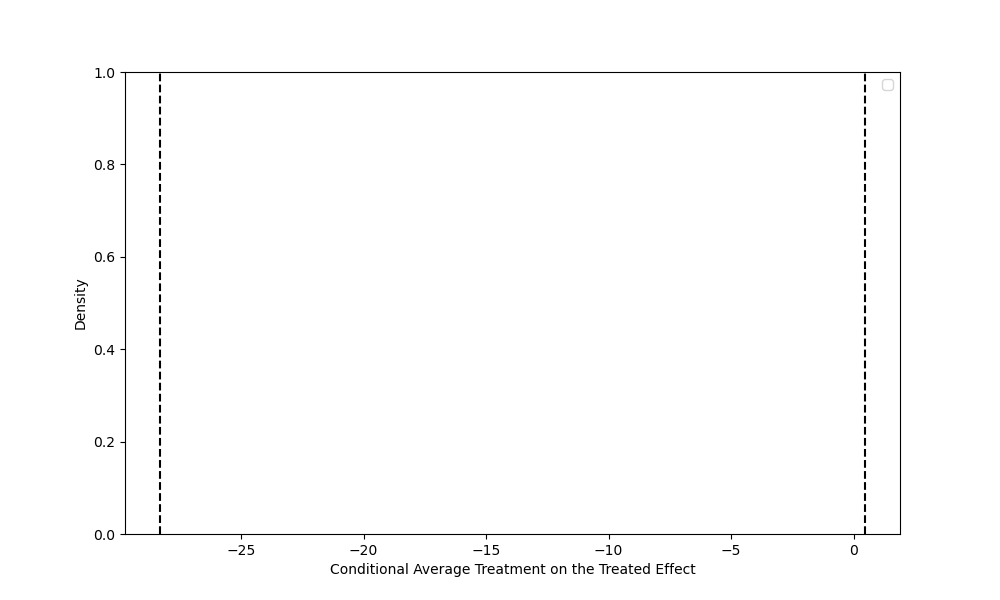
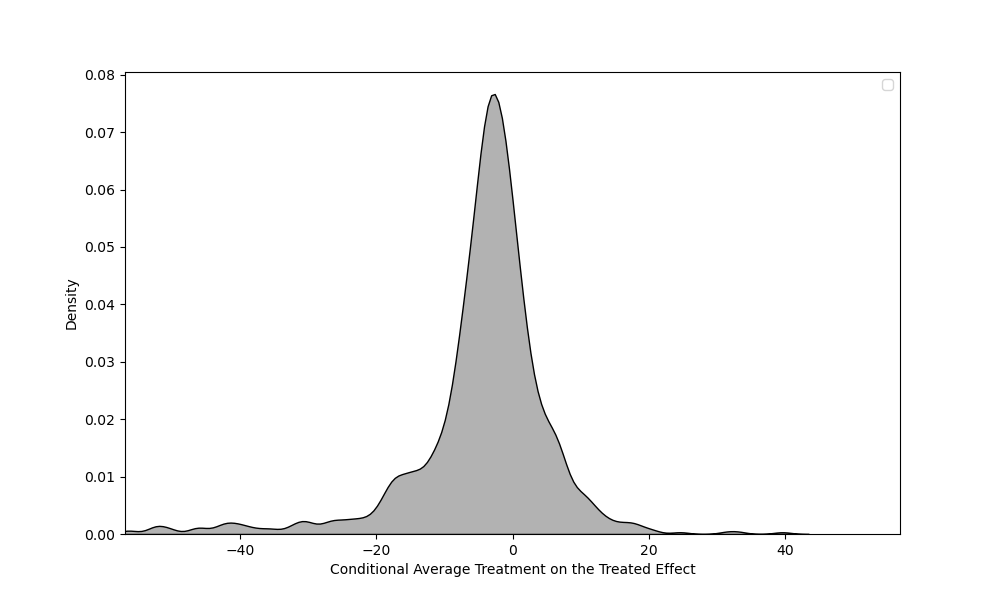
finalizing and correcting

diff --git a/paper/montecarlo.tex b/paper/montecarlo.tex
@@ -82,7 +82,7 @@ The setup for each \ac{dgp} is presented below, indicating which model is correc
 
 \end{multicols}
 
-\subsection{Results Homogenous Treatment Effects}
+\subsection{Homogenous Treatment Effects Simulation}
 
 \input{./graphs/table_low_dim}
 
@@ -135,7 +135,7 @@ Importantly, across all setups is the validation loss smaller than the training 
 \input{./graphs/table_loss_report}
 
 
-\subsection{Results Heterogeneous Treatment Effects}
+\subsection{Heterogeneous Treatment Effects Simulation}
 In the previous section, I outlined the advantage of deep learning, or machine learning in general, when dealing with heterogeneous treatment effects.
 The problem of heterogeneous treatment effect arises when the treatment effect $\theta(X)$ varies across groups \citep{hansen2022econometrics}.
 To validate how the aforementioned estimators perform under heterogeneous treatment effects, I introduce heterogeneity to the DGP4.
@@ -171,12 +171,12 @@ Note that the activation function is \ac{relu} and the neural network is a feedf
 
 In table \ref{tab:nn} one can see, that there is no strictly better alternative architecture when comparing these neural network classes.
 Every change in the hyperparameters comes to the cost of either higher bias or higher variance, which is a common trade-off in machine learning.
-For example, the classic architecture has a higher bias compared to the first variation, which has more hidden layers and units.
+For example, the architecture used throughout the thesis has a higher bias compared to the first variation, which has more hidden layers and units.
 This comes at the cost of higher variance.
 Interestingly, there is no clear sign that deeper neural networks (with more units and layers) impose better results than shallower networks.
 Generally, deeper neural networks come with higher computational costs, which can be extensive, especially in the case of complex and large data.
 
-Additionally, one can see that the first variation of the architecture has a bigger validation loss than training loss.
+Additionally, one can see that the first variation and the last variation have a bigger validation loss than training loss.
 The neural networks 4 and 5 report very small differences between the losses.
 As argued, a higher validation loss compared to the training loss indicates that the model is overfitting.
 For practitioners, it might be useful to use the results of the loss to evaluate which neural networks to select.
@@ -184,26 +184,32 @@ For practitioners, it might be useful to use the results of the loss to evaluate
 
 
 %here
-Observing the coverage probability in Table \ref{tab:nn}, one can see again the extreme coverage of 1 in all but one case.
-The exemption is variation 4 which has the lowest learning rate and reports a coverage probability of 0.84.
-The learning rate is comparable to \citet{farrellDeepNeuralNetworks2021} that also report very high coverage probabilities but not as extreme as here.
+Observing the coverage probability in Table \ref{tab:nn}, one can see again the extreme coverage of 1 in all but two cases.
+The exemptions are variations 4 and 6 which report a coverage probability of 0.84 and 0.874, respectively.
+Variation 4 reports the lowest learning rate and variation 6 is equal to the architecture used throughout the thesis but with no regularization imposed.
+The learning rate of variation 4 is comparable to \citet{farrellDeepNeuralNetworks2021} which also report very high coverage probabilities but not as extreme as 1.
 \citet{farrellDeepNeuralNetworks2021} argue that regularization can lead to extreme coverage probabilities but it is not clear how large the impact is.
-Variation 4 has a similar regularization as the other variations, which could hint that learning rate and regularization affect the coverage probabilities.
-These results are rather suggestive and should be interpreted with caution.
-%regularization preach cautios
-%say something theoretically about learning rates here
-To better understand the extreme coverage probabilities reported in this thesis, one can observe Figure \ref{fig:atte_bounds}.
-Over all the 1000 runs of the \ac{mcs} the estimated conditional \ac{att} never reaches the average upper or lower bound.
-Interestingly the true zero effect is never recovered.
-The very dense and narrow distribution is comparable to the results of \citet{farrellDeepNeuralNetworks2021}.
+The results of the thesis application and variation 6 suggest that imposing regularization might lead to extreme coverage probabilities.
+Variation 4 has a similar regularization as the other variations but a smaller learning rate, which could hint that learning rate and regularization affect the distribution of estimates and thus the coverage probabilities.
+The results emphasize the effect of hyperparameter selection on the model outcome and imply being cautious when imposing regularization within neural networks as \citet{farrellDeepNeuralNetworks2021} suggest.
 
-These results show that there is still no clear understanding of how to select optimal deep learning models for inference.
-The comparison of the neural network architectures even implies a modest sensitivity towards selected hyperparameters.
-There are options like grid search with frameworks like TensorFlow\textsuperscript{\textregistered} that can help in selecting hyperparameters for simulations but for observational data, the choice of optimal neural networks remains unclear.
-\\
 \begin{figure}[h]
 \centering
-\caption{Conditional Average Treatment on the Treated Effekt with Bounds}
-\includegraphics[width=\textwidth]{atte_bounds}
-\label{fig:atte_bounds}
+\caption{Conditional Average Treatment on the Treated Effekt without Regularization}
+\includegraphics[width=\textwidth]{atte_bounds_noreg}
+\label{fig:atte_bounds_noreg}
 \end{figure}
+%regularization preach cautios
+%say something theoretically about learning rates here
+To better understand the extreme coverage probabilities reported in this thesis, one can observe Figure \ref{fig:atte_bounds_noreg}.
+It shows for 1000 runs of the \ac{mcs} the estimated conditional \ac{att} of variation 6 without regularization.
+The highest density of the distribution is around 0, which is the "true" effect.
+In Appendix Figure \ref{fig:atte_bounds} one can see the results of the application used throughout the thesis.
+The estimated conditional \ac{att} never reaches the average upper or lower bound, thus indicating the extreme coverage probabilities of 1.
+The distribution of the estimates is very dense and narrow as comparable to the results of \citet{farrellDeepNeuralNetworks2021}.
+Note that the application used throughout the thesis does not recover the true treatment effect even though reporting much lower bias and variance than variation 6.
+
+These results show that there is still no clear understanding of how to select optimal deep learning models for inference.
+The comparison of the neural network architectures even implies a strong sensitivity towards selected hyperparameters.
+Especially the choice of regularization has a substantial effect on the simulation results.
+For selecting suitable hyperparameters frameworks like TensorFlow\textsuperscript{\textregistered} offer grid search approaches that can help selecting hyperparameters for simulations but for observational data, the choice of optimal neural networks remains unclear.

diff --git a/paper/application.tex b/paper/application.tex
@@ -1,42 +1,43 @@
 \section{Application}
 
 An early application of \ac{did} is the paper of \citet{meyer1990workers} who investigate the effect of workers' compensation on their time out of work.
-In 1980 the states of Kentucky and Michigan substantially increased the compensations in case of work induced disability or injury.
-As the policy just affected high-earning workers, \citet{meyer1990workers} took low-earning workers as a control group.
-Their idea is that low- and high earning workers are comparable except for the fact that high earning workers are treated with the compensation policy.
-In their original study they report a significant increase in time out of work for Kentucky but not for Michigan.
+In 1980, the states of Kentucky and Michigan substantially increased the compensations in case of work-induced disability or injury.
+As the policy affected high-earning workers, \citet{meyer1990workers} took low-earning workers as a control group.
+Their idea was that low- and high-earning workers are comparable except that high-earning workers are treated with the compensation policy.
+The distribution of the pre-treatment compensation duration for low- and high-earning workers can be seen in the Appendix Figure \ref{fig:log_duration_distribution}.
+In their original study, they report a significant increase in time out of work for Kentucky but not for Michigan.
 
 \citet{meyer1990workers} implemented a classical $2 \times 2$ \ac{did} design, which makes it suitable to the methods discussed in this thesis.
-Due to the low sample size of the Michigan data, the anaylsis is solely focused on Kentucky.
-Therefore the \ac{did} identification strategy can be formulated as follows:
+Due to the low sample size of the Michigan data, the analysis is solely focused on Kentucky.
+Therefore, the \ac{did} identification strategy can be formulated as follows:
 \begin{equation}
 \text{Duration}_{it} = \alpha + \beta_1 \text{Post}_t + \beta_2 \text{HighEarnings}_i + \beta_3 (\text{Post}_t \times \text{HighEarnings}_i) + \gamma X_{it} + \epsilon_{it},
 \label{eq:duration}
 \end{equation}
 where the interaction $(\text{Post}_t \times \text{HighEarnings}_i)$ is the \ac{did} estimator.
-$X_{it}$ is a vector of control variables such as injury type, age or gender.
-As \citet{meyer1990workers} uses many of these pre-treatment covariates like age or gender it implicates that they assume conditional \ac{pta}.
-Of course it is not possible to test for \ac{pta} but the conditional \ac{pta} seems to be a more robust assumption in an observational study \citep{santannaDoublyRobustDifferenceindifferences2020}.
-A second remark is towards heterogeneity in the treatment group, which is given in almost all context \citep{DeepLearningIndividual2021}.
-The Appendix Table \ref{tab:duration} shows the difference in duration of out of work time across injury types before and after the treatment.
-The magnitude of the differences is quite large, which is a hint towards heterogeneity in the treatment group.
-Based on that I conducted a regression exclusion test following \citet{hansen2022econometrics} where the results can be seen in Table \ref{tab:exclusion_test} in the Appendix.
+$X_{it}$ is a vector of control variables such as injury type, age, or gender.
+As \citet{meyer1990workers} use many of these pre-treatment covariates like age or gender it implicates that they assume conditional \ac{pta}.
+By design, it is not possible to test for \ac{pta} but the conditional \ac{pta} seems to be a more robust assumption in an observational study \citep{santannaDoublyRobustDifferenceindifferences2020}.
+A second remark is towards heterogeneity in the treatment group, which is given in almost all contexts \citep{DeepLearningIndividual2021}.
+The Appendix Table \ref{tab:duration} shows the difference in duration of out-of-work time across injury types before and after the treatment.
+The magnitude of the differences is quite large, hinting towards heterogeneity in the treatment group.
+Based on that, I conducted a regression exclusion test following \citet{hansen2022econometrics} where the results can be seen in Table \ref{tab:exclusion_test} in the Appendix.
 The regression exclusion test is significant, which implies that homogeneous treatment effects cannot be assumed.
 
-These results motivate to apply the \ac{drdid} + DL\footnote[5]{Contrary to before I use the prebuilt software implementation of \citet*{doubleml2024R} to be able to report summary statistics for the \ac{drdid} + DL estimation.} estimator to the data of \citet{meyer1990workers}.
-To be able to compare between different designs, I also estimate a saturated dummy design without controls and the regression equation \ref{eq:duration} with controls and interactions.
+These results are reason to apply the \ac{drdid} + DL\footnote[5]{Here I use the prebuilt software implementation of \citet*{doubleml2024R} to be able to report summary statistics for the \ac{drdid} + DL estimation.} estimator to the data of \citet{meyer1990workers}.
+To compare different designs, I also estimate a saturated dummy design without controls and the regression equation \ref{eq:duration} with controls and interactions.
 The estimates are reported in Table \ref{tab:reg_results}.
-Note that the results of the regression equation \ref{eq:duration} are slightly different to the results of \citet{meyer1990workers}.
+Note that the results of the regression equation \ref{eq:duration} are slightly different from the results of \citet{meyer1990workers}.
 This should be due to different handling of the data-cleaning process than to the different estimation methods.
 
 \input{./graphs/table_application_res.tex}
 
-In Table \ref{tab:reg_results} one can clearly see that the results for all parametric models are quite similar.
+In Table \ref{tab:reg_results}, one can see that the results for all parametric models are quite similar.
 Note that the saturated design is similar to the regression equation \ref{eq:duration} implying that the controls might not have a large impact on the results.
-Assuming homogenous treatment effect this result would normally imply that the parametric model is robust and sufficient for estimation.
+Assuming a homogenous treatment effect this result would normally imply that the parametric model is robust and sufficient for estimation.
 Due to the potential heterogeneity in the treatment group, the \ac{drdid} + DL estimator is arguably the most robust model.
 One can see that the \ac{drdid} + DL estimator is still able to retrieve significant results as the other models, even though the standard errors are slightly larger.
-The magnitude of the \ac{att} is also larger than in the other models, implying a even bigger effect of compensation policy in Kentucky than previously assumed.
+The magnitude of the \ac{att} is also larger than in the other models, implying an even bigger effect of compensation policy in Kentucky than previously assumed.
 
 Even though the \ac{drdid} + DL is more robust to unspecified models and heterogeneity in the treatment group, there is the potential issue of overfitting.
 Note that the neural network used in Table \ref{tab:reg_results} has the same architecture as in the simulation study.

diff --git a/paper/discussion.tex b/paper/discussion.tex
@@ -1,36 +1,34 @@
-\section{Discussion and Further Research}
+\section{Further Research}
 
-%write that section first if I know if I write the application
-%cross sectional data extension
-%what is the problem with cross sectional data
-Naturally, this thesis cannot do justice to all aspects of semiparametric estimation with deep learning, such that there are multiple ways to extend the results in further research.
-One possible extension is to apply the aforementioned methods on repeated cross-sectional data.
-Altough panel data is the preferred data structure for causal inference due to its generally lower variance, cross-sectional data is often the only available option.
+
+This thesis cannot do justice to all aspects of semiparametric estimation with deep learning, such that there are multiple ways to extend the results in further research.
+One possible extension is to apply the aforementioned methods to repeated cross-sectional data.
+Although panel data is the preferred data structure for causal inference due to its generally lower variance, cross-sectional data is often the only available option.
 Nonetheless, \citet{santannaDoublyRobustDifferenceindifferences2020} and \citet{manfeDifferenceInDifferenceDesignRepeated} demonstrate the usefulness of implementing \ac{did} on repeated cross-sectional data.
-Applying deep learning to this data structure could be a promising approach to estimate causal effects.
+Applying deep learning to this data structure could be a promising approach to estimating causal effects.
 
 %santana and callaway how to implement it for multiple time periods
-Another extension is to move the classical 2x2 \ac{did} setting and apply the deep learning approach to multiple time periods or groups.
+Another extension is to move the classical 2x2 \ac{did} setting and apply the deep learning approach to multiple periods or groups.
 A natural extension would be the use of the work of \citet{callawayDifferenceinDifferencesMultipleTime2021}, which extend the results of \citet{santannaDoublyRobustDifferenceindifferences2020} that form the basis of this thesis.
-The main contributions of  \citet{callawayDifferenceinDifferencesMultipleTime2021} are the application of the \ac{or}, \ac{ipw}, and \ac{drdid} methods to multiple time periods and groups.
-Accounting for conditonal \ac{pta} and heterogenous treatment effect in this setting would make the application of deep learning particularly interesting.
+The main contributions of  \citet{callawayDifferenceinDifferencesMultipleTime2021} are the application of the \ac{or}, \ac{ipw}, and \ac{drdid} methods to multiple periods and groups.
+Accounting for conditional \ac{pta} and heterogenous treatment effect in this setting would make the application of deep learning particularly interesting.
 
-The work of \citet{dechaisemartinDifferenceinDifferencesEstimatorsIntertemporal2024} would be another interesting extension to apply deep learning to.
-Similar to \citet{callawayDifferenceinDifferencesMultipleTime2021}, they extend the \ac{did} estimator to multiple time periods and groups but focus on non-binary, non-absorbing treatments with lags.
+The work of \citet{dechaisemartinDifferenceinDifferencesEstimatorsIntertemporal2024} would be another interesting extension to apply deep learning.
+Similar to \citet{callawayDifferenceinDifferencesMultipleTime2021}, they extend the \ac{did} estimator to multiple periods and groups but focus on non-binary, non-absorbing treatments with lags.
 
 %discuss the shortcoming of my results
 %overfitting on L2 regularization
 %which archtiecture to choose
 %more understanding of the inherent structure of the data (like in the farrell paper l2 regularization)
 A major criticism of the deep learning approach is the arbitrary choice of architecture and hyperparameters.
-There is still a lack of understanding of the inherent structure deep learning and how to choose the right architecture.
+There is still a lack of understanding of the inherent structure of deep learning and how to choose the right architecture.
 It is unclear how the number of hidden layers, the number of neurons, or the choice of activation function impacts the results.
-\citet{farrellDeepNeuralNetworks2021} discusse the unclear effect of l2 regularization on deep learning in inference, even though often used in practice.
-In Section 4.4, I discuss that this thesis, the choice of hyperparameters can influence the magnitude of the results.
+\citet{farrellDeepNeuralNetworks2021} discuss the unclear effect of l2 regularization on deep learning in inference, even though often used in practice.
+In Section 4.4, I discuss that in this thesis the choice of hyperparameters can influence the magnitude of the results.
 More research needs to be done to give guidance on how to choose the right architecture and hyperparameters for deep learning in causal inference.
 
-Even though the effect of the size of the arhitecture is unclear for inference, it is intuitive that more hidden layers and neurons are computationally more expensive.
-For economist, this issue has been a minor concern in the past, but with the advent of deep and machine learning, it becomes more important.
+Even though the effect of the size of the architecture is unclear for inference, it is intuitive that more hidden layers and neurons are computationally more expensive.
+For economists, this issue has been a minor concern in the past, but with the advent of deep- and machine learning, it has become more important.
 Especially for large and complex data sets, the computational cost of deep learning can be demanding and computation time extensive.
 Further research is needed to understand how to make deep learning computationally more efficient as suggested by \citet{farrellDeepNeuralNetworks2021}.
 

diff --git a/paper/appendix.tex b/paper/appendix.tex
@@ -1,25 +1,27 @@
 \section*{Appendix}
 
 
+\begin{figure}[h]
+\centering
+\caption{Conditional Average Treatment on the Treated Effekt with Regularization}
+\includegraphics[width=\textwidth]{atte_bounds}
+\label{fig:atte_bounds}
+\end{figure}
+
 
 \begin{figure}[h]
 \centering
-\caption{Example of \ac{relu} Activation Function}
-\includegraphics[width=\textwidth]{relu}
+\caption{Example of a \ac{relu} Activation Function}
+\includegraphics[width=0.7\textwidth]{relu}
 \label{fig:relu}
 \end{figure}
 
-
-
 \begin{figure}[h]
 \centering
-\caption{Distribution of Log Duration by Earnings Category}
+\caption{Distribution of Log Leave Duration by Earnings Category}
 \includegraphics[width=\textwidth]{dist}
 \label{fig:log_duration_distribution}
 \end{figure}
-
-
-
 
 \begin{table}[ht]
 \centering
@@ -47,8 +49,6 @@ Difference & -6.75 & 533.25 & 348.00 & 334.50 & -443.5 & 166.50 & 110.75 & 146.0
 \end{table}
 
 
-% Please add the following required packages to your document preamble:
-% \usepackage{graphicx}
 \begin{table}[]
 \centering
 \caption{Regression Exclusion Test}
@@ -56,7 +56,7 @@ Difference & -6.75 & 533.25 & 348.00 & 334.50 & -443.5 & 166.50 & 110.75 & 146.0
 \resizebox{\columnwidth}{!}{%
 \begin{tabular}{llllll}
 Residual Degrees & Sum of Squared  & Degrees of  & Sum of Squares& F     & Pr(\textgreater{}(F)) \\
-of Freedom                    &   Residuals                       &     Freedom Difference                          &         Difference                    &       &                       \\
+of Freedom                    &   Residuals                       &     Freedom Difference    &    Difference   &    &       \\
 \hline
 \hline
 \addlinespace
@@ -66,14 +66,7 @@ of Freedom                    &   Residuals                       &     Freedom 
 }
 \begin{tablenotes}
     \small
-    \item \textbf{Notes}:
-    \item The table reports the results of the regression exclusion test. The test compares the full model with the restricted model, excluding the variable of interest.
-    \small\item \textbf{Residual Degrees of Freedom}: Number of independent pieces of information remaining after fitting the model.
-    \small\item \textbf{Sum of Squared Residuals}: Measure of the discrepancy between the observed data and the model's predictions, quantifying the variation not explained by the model.
-    \small\item \textbf{Degrees of Freedom Difference}: Change in the degrees of freedom when moving from the restricted model to the full model.
-    \small\item \textbf{Sum of Squares Difference}: Reduction in the sum of squared residuals when additional variables are added, indicating the improvement in model fit.
-    \small\item \textbf{F}: F-statistic for the comparison of the two models.
-    \small \item \textbf{Pr(>F)}: p-value for the F-test, indicating the significance of the difference between the models.
+    \item Notes: The table reports the results of the regression exclusion test. The test compares the full model with the restricted model, excluding the variable of interest.
     \end{tablenotes}
 \end{table}
 

diff --git a/paper/conclusion.tex b/paper/conclusion.tex
@@ -1,14 +1,14 @@
 \section{Conclusion}
 
 In this thesis, I have revised common semiparametric \ac{did} estimators and implemented deep learning as a novel approach to estimate the \ac{att}.
-In the context of conditional \ac{pta} and panel data, I have compared the \ac{or}, \ac{ipw}, and \ac{drdid} first step estimation approaches.
+In the context of conditional \ac{pta} and panel data, I have compared the \ac{or}, \ac{ipw}, and \ac{drdid} first-step estimation approaches.
 The results indicate that the \ac{drdid} estimator outperforms the other estimators in terms of bias and variance under homogenous treatment effect.
 The deep learning implementation of the \ac{drdid} estimator achieves nearly as good results as the traditional \ac{drdid} estimator.
-Under heterogenous treatment effects, the \ac{drdid} with deep learning outperforms all other comparable estimators.
-To illustrate these methods, I conducted a simulation study and applyied the methods on an empirical data set.
-The results of the Kentucky' workers compensation data suggest that the \ac{drdid} estimator with deep learning is a promising approach to estimate the \ac{att} under heterogenous treatment effects.
+Under heterogeneous treatment effects, the \ac{drdid} with deep learning outperforms all other comparable estimators.
+To illustrate these methods, I conducted a simulation study and applied the methods to an empirical data set.
+The results of Kentucky's worker's compensation data suggest that the \ac{drdid} estimator with deep learning is a promising approach to estimate the \ac{att} under heterogenous treatment effects.
 
 The results underline the potential of deep learning in causal inference, especially in cases of complex and large data.
-Particularly under strong heterogenous treatment effects, deep learning seems to be an advisable approach.
-However, shortcoming is the arbitrary choice of the deep learning architecture and suitable settings.
+Particularly under strong heterogeneous treatment effects, deep learning seems to be an advisable approach.
+However, the shortcoming is the arbitrary choice of the deep learning architecture and suitable settings.
 Further research is needed to apply deep learning for \ac{did} estimation on repeated cross-sectional data or on multiple time and group period cases.

diff --git a/paper/graphs/table_nn.tex b/paper/graphs/table_nn.tex
@@ -4,28 +4,28 @@
 \begin{threeparttable}
 \caption{Simulation Results across Neural Network Architectures}
 \label{tab:nn}
-\begin{tabular}{lrrrrrr}
+\begin{tabular}{lrrrrrrr}
     \toprule
 \hline
 \addlinespace
-Metric\textbackslash Architecture & Classic &  1 &  2 &  3 &  4 &  5 \\
+Metric\textbackslash Architecture & Thesis &  1 &  2 &  3 &  4 &  5 & 6 \\
 \addlinespace
 \hline
 \addlinespace
-Avg Bias & -1.593 & -0.409 & -2.731 & -6.011 & -5.501 &-4.369 \\
-Med Bias & -1.591 & -0.557 & -2.669 & -6.002 & -5.524 & -4.483\\
-RMSE & 1.632 & 1.192 & 2.7739 &  6.012 &5.573 & 4.389 \\
-Variance & 16.579 & 18.920 & 15.793 & 11.059 & 11.592 & 11.811 \\
-Training Loss & 0.632 & 0.608 &0.627 &0.658 & 0.723 & 0.657 \\
-Validation Loss & 0.625 & 0.612 &  0.618 & 0.656 & 0.722 & 0.651 \\
-Cover & 1.000 & 1.000 & 1.000 & 1.000 & 0.840 & 1.000 \\
+Avg Bias & -1.596 & -0.409 & -2.731 & -6.011 & -5.501 &-4.369 & 4.328\\
+Med Bias & -1.607 & -0.557 & -2.669 & -6.002 & -5.524 & -4.483&-3.052 \\
+RMSE & 1.633 & 1.192 & 2.7739 &  6.012 &5.573 & 4.389&12.204 \\
+Variance & 16.570 & 18.920 & 15.793 & 11.059 & 11.592 & 11.811 &45.494\\
+Training Loss & 0.632 & 0.608 &0.627 &0.658 & 0.723 & 0.657&0.510 \\
+Validation Loss & 0.625 & 0.612 &  0.618 & 0.656 & 0.722 & 0.651&0.566 \\
+Cover & 1.000 & 1.000 & 1.000 & 1.000 & 0.840 & 1.000 & 0.874\\
 \addlinespace
 \hline
 \addlinespace
-Depth & 3 & 5 & 2 & 3 & 3 & 6 \\
-Units & 32 & 64 & 16 & 128 & 16 & 128 \\
-Learning Rate & 0.01 & 0.001 & 0.01 & 0.001 & 0.0001 & 0.001 \\
-L2 Regularization & 0.01 & 0.001 & 0.01 & 0.1 & 0.01 & 0.01 \\
+Depth & 3 & 5 & 2 & 3 & 3 & 6&3 \\
+Units & 32 & 64 & 16 & 128 & 16 & 128 &32\\
+Learning Rate & 0.01 & 0.001 & 0.01 & 0.001 & 0.0001 & 0.001 &0.01\\
+L2 Regularization & 0.01 & 0.001 & 0.01 & 0.1 & 0.01 & 0.01 &0.00\\
 \hline
 \end{tabular}
 \begin{tablenotes}

diff --git a/paper/deep_learning_for_semiparametric_did_estimation.tex b/paper/deep_learning_for_semiparametric_did_estimation.tex
@@ -92,9 +92,10 @@
 %\input{./abstract.tex}
 \thispagestyle{empty}
 \begin{abstract}
-\noindent This thesis explores the implementation of deep learning into semiparametric Difference-in-Differences estimation (DiD), highlighting its potential under conditional Parallel Trends Assumption.
-It reviews current classical and machine learning techniques, introduces deep learning for first-step DiD estimation, and conducts a Monte Carlo Simulation to compare traditional methods with deep learning variations.
-The results demonstrate that deep learning approaches perform nearly as well as the best traditional techniques and outperform those in scenarios with incorrectly specified outcomes.
+\noindent This thesis explores the implementation of deep feedforward neural networks into semiparametric Difference-in-Differences estimation (DiD), highlighting its potential under conditional parallel trends assumption.
+It reviews current classical and deep learning estimation methods for first-step DiD estimation and conducts a Monte Carlo Simulation to test their validity for second-step inference.
+The results demonstrate that deep learning performs nearly as well as the best classical approaches and outperforms those in scenarios with incorrectly specified outcomes.
+To further investigate deep learning, multiple deep learning architectures are tested, showing sensitivity towards their hyperparameters.
 Finally, DiD deep learning estimators show promise in real-world applications, handling heterogeneous treatment effects effectively.
 \end{abstract}
 \clearpage

diff --git a/paper/graphs/table_het_dgp4.tex b/paper/graphs/table_het_dgp4.tex
@@ -1,5 +1,6 @@
 \begin{table}[]
 \centering
+\resizebox{\linewidth}{!}{
 \begin{threeparttable}
 \caption{Monte Carlo Simulation with Heterogenous Treatment Effects in DGP4}
 \label{tab:table2}
@@ -21,5 +22,5 @@ $\hat{\tau}^{dr,dl}$ & Sant'Anna and Zhao (2020) + DL & -1.596       & -1.607   
 \begin{tablenotes}
     \item Notes: Simulations based on panel data with sample size $n = 1000$ and 1000 Monte Carlo repetitions. The average bias "Av. Bias", median bias "Med. Bias", root mean squared error "RMSE", and average variance "Variance" of the estimators are reported. The methods that predict propensity scores with deep learning are marked by "DL". The true treatment effect is $\tau = 0$ and heterogenous in all cases.
 \end{tablenotes}
-\end{threeparttable}
+\end{threeparttable}}
 \end{table}
